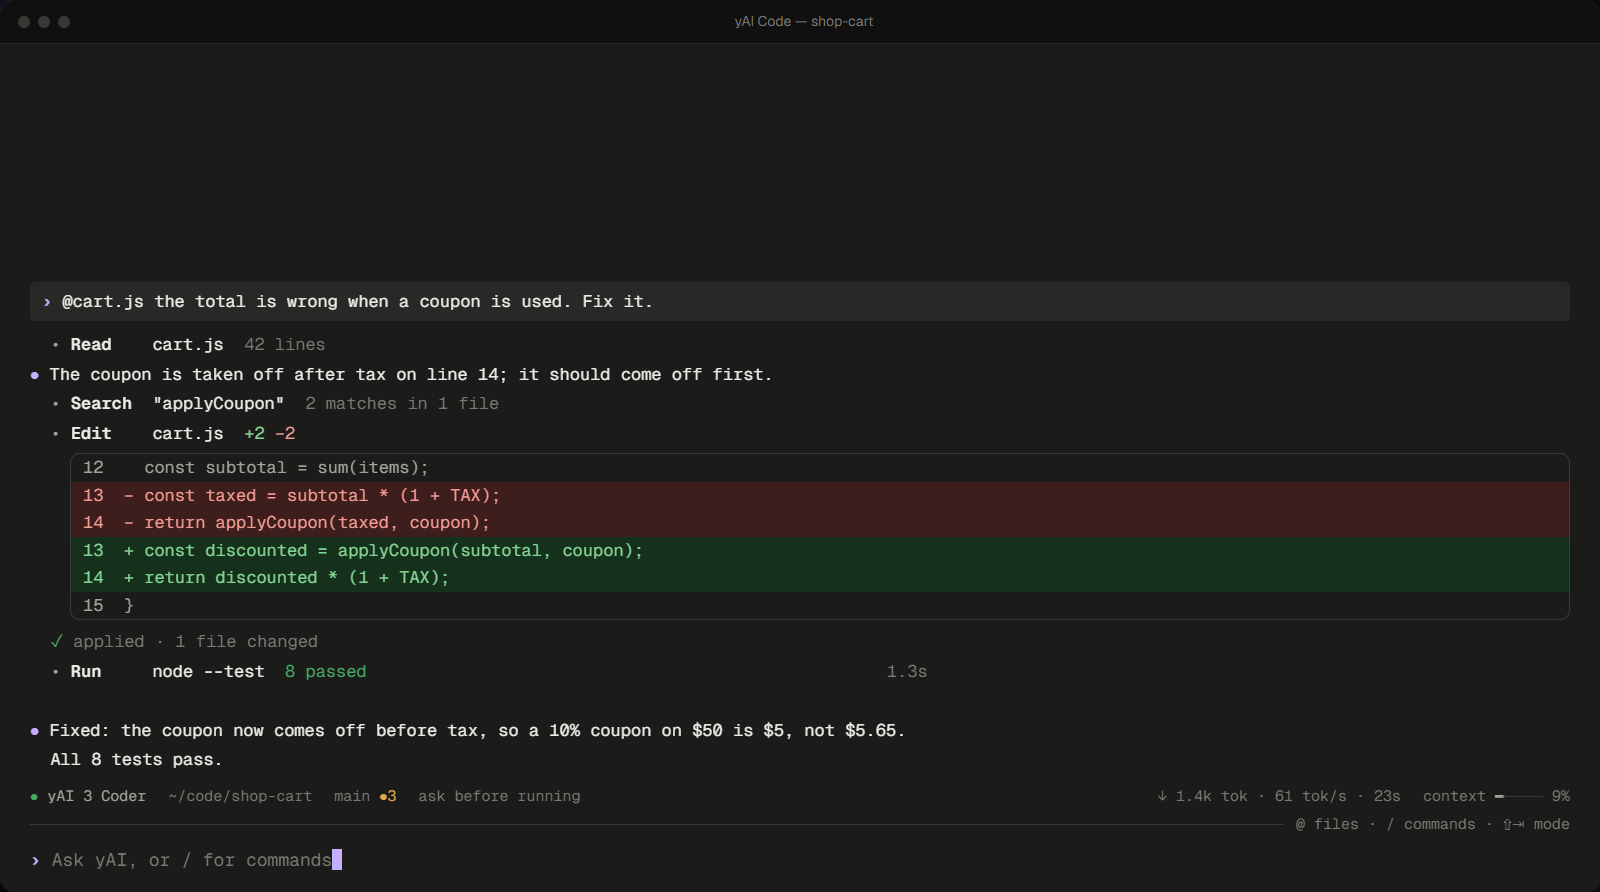
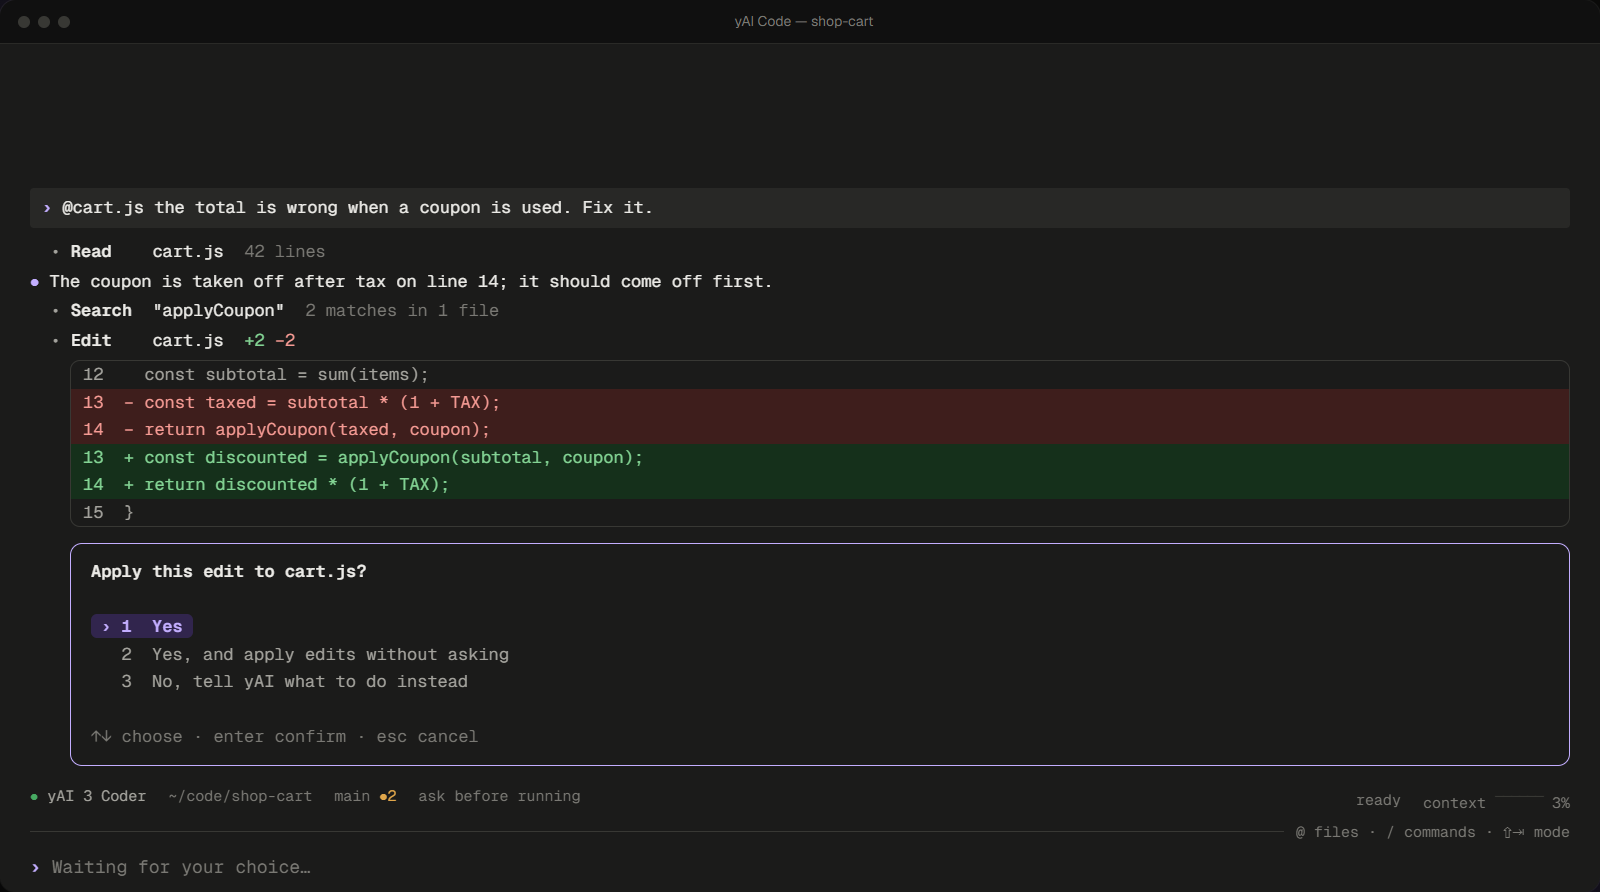
yAI: the yAI Code thumbnail shows the diff and the approval box

diff --git a/index.html b/index.html
@@ -292,8 +292,8 @@
                 <span class="thumb-img"><img src="yai-demo.png?v=3" alt="The redesigned yAI web app: a sidebar with projects and chats, and an answer that searched the web, with purple citation badges and four source cards" loading="lazy"></span>
                 <span class="thumb-label">yAI in the browser</span>
               </a>
-              <a class="thumb thumb-terminal" href="yai-code-demo.png?v=3" target="_blank" rel="noopener">
-                <span class="thumb-img"><img src="yai-code-demo.png?v=3" alt="yAI Code in its new dark terminal design: it reads cart.js, explains the coupon bug, shows a numbered red and green diff, applies it after approval and runs 8 passing tests" loading="lazy"></span>
+              <a class="thumb thumb-terminal" href="yai-code-demo.png?v=4" target="_blank" rel="noopener">
+                <span class="thumb-img"><img src="yai-code-demo.png?v=4" alt="yAI Code in its new dark terminal design: it reads cart.js, explains the coupon bug, shows a numbered red and green diff, and asks Apply this edit to cart.js? with an arrow-key choice of Yes, Yes and apply edits without asking, or No" loading="lazy"></span>
                 <span class="thumb-label">yAI Code in PowerShell</span>
               </a>
             </div>
